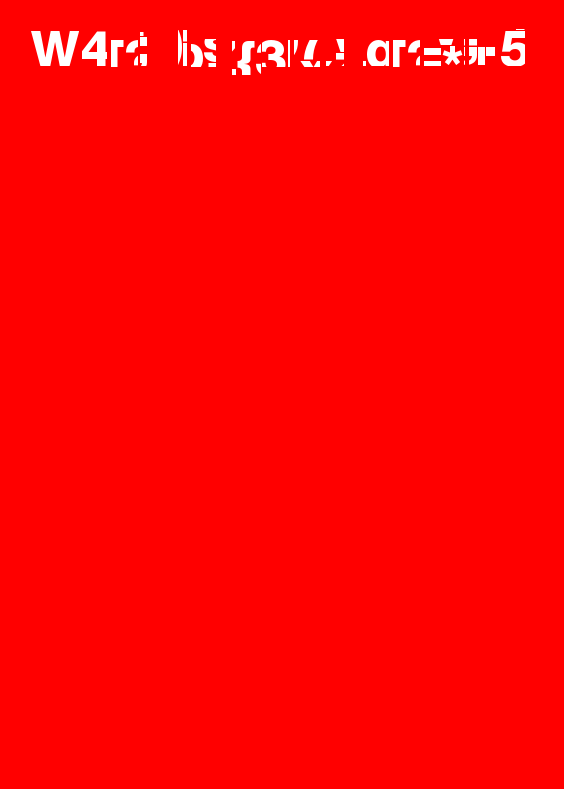
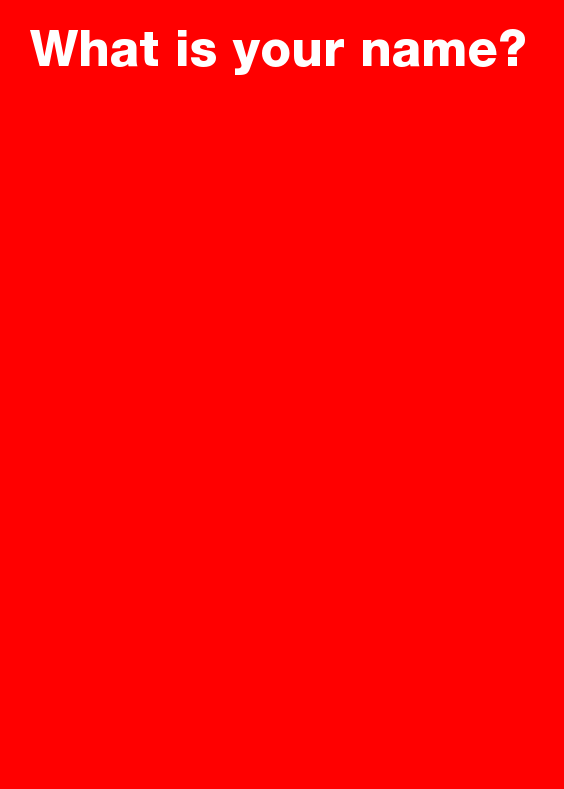
add 24 point font

Changed region(s): [[0.3014, 0.0304, 0.9344, 0.0913], [0.0603, 0.0304, 0.2713, 0.0913]]

diff --git a/nsfaq-card.js b/nsfaq-card.js
@@ -55,6 +55,10 @@ async function entrypoint(event){
   }
 }
 
+//CONVERT FONT
+
+//https://ttf2fnt.com/
+
 async function createCard(category, color, text){
   const w = 564;
   const h = 789;
@@ -65,7 +69,7 @@ async function createCard(category, color, text){
   //https://github.com/oliver-moran/jimp/tree/master/packages/plugin-print/fonts
   //const font32 = await Jimp.loadFont("https://raw.githubusercontent.com/oliver-moran/jimp/master/packages/plugin-print/fonts/open-sans/open-sans-64-white/open-sans-64-white.fnt");
   //const font16 = await Jimp.loadFont("https://raw.githubusercontent.com/oliver-moran/jimp/master/packages/plugin-print/fonts/open-sans/open-sans-16-white/open-sans-16-white.fnt");
-  const font32 = await Jimp.loadFont("https://raw.githubusercontent.com/jtubert/serverless-slack-image/master/fonts/HelveticaNeueLTStd-Hv-50-white.fnt");
+  const font32 = await Jimp.loadFont("https://raw.githubusercontent.com/jtubert/serverless-slack-image/master/fonts/HelveticaNeueLTStd-Hv.ttf.fnt");
   //const font16 = await Jimp.loadFont("https://raw.githubusercontent.com/jtubert/serverless-slack-image/master/fonts/HelveticaNeueLTStd-Hv.-24-white.fnt");
   holder.print(font32, left, top, text, w-(left*2));
   //holder.print(font16, left, 700, category, w-(left*2));
@@ -84,9 +88,9 @@ async function uploadBufferToS3(buffer, filename, location){
 
 
   AWS.config.update({
-    accessKeyId: 'AKIAQTKQ4B5NWOP263HB', 
-    secretAccessKey: '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',
-    region: 'us-east-1'
+    accessKeyId: process.env.accessKeyId, 
+    secretAccessKey: process.env.secretAccessKey,
+    region: process.env.region
   });
   // Create S3 service object
   const s3 = new AWS.S3({apiVersion: '2006-03-01'});
